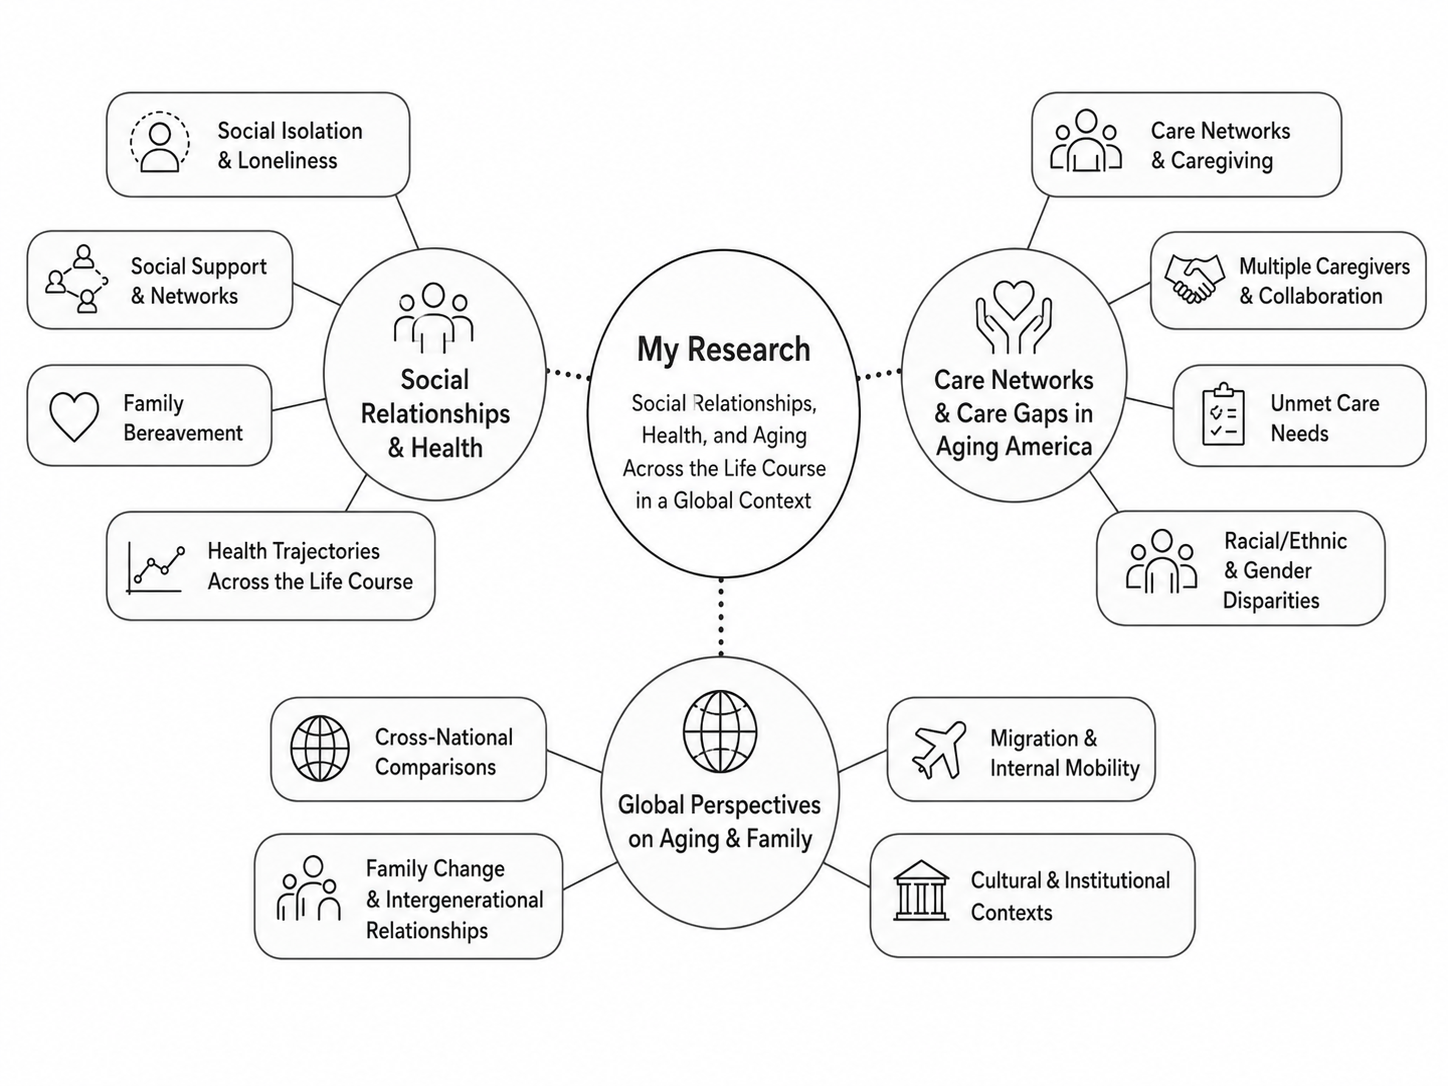
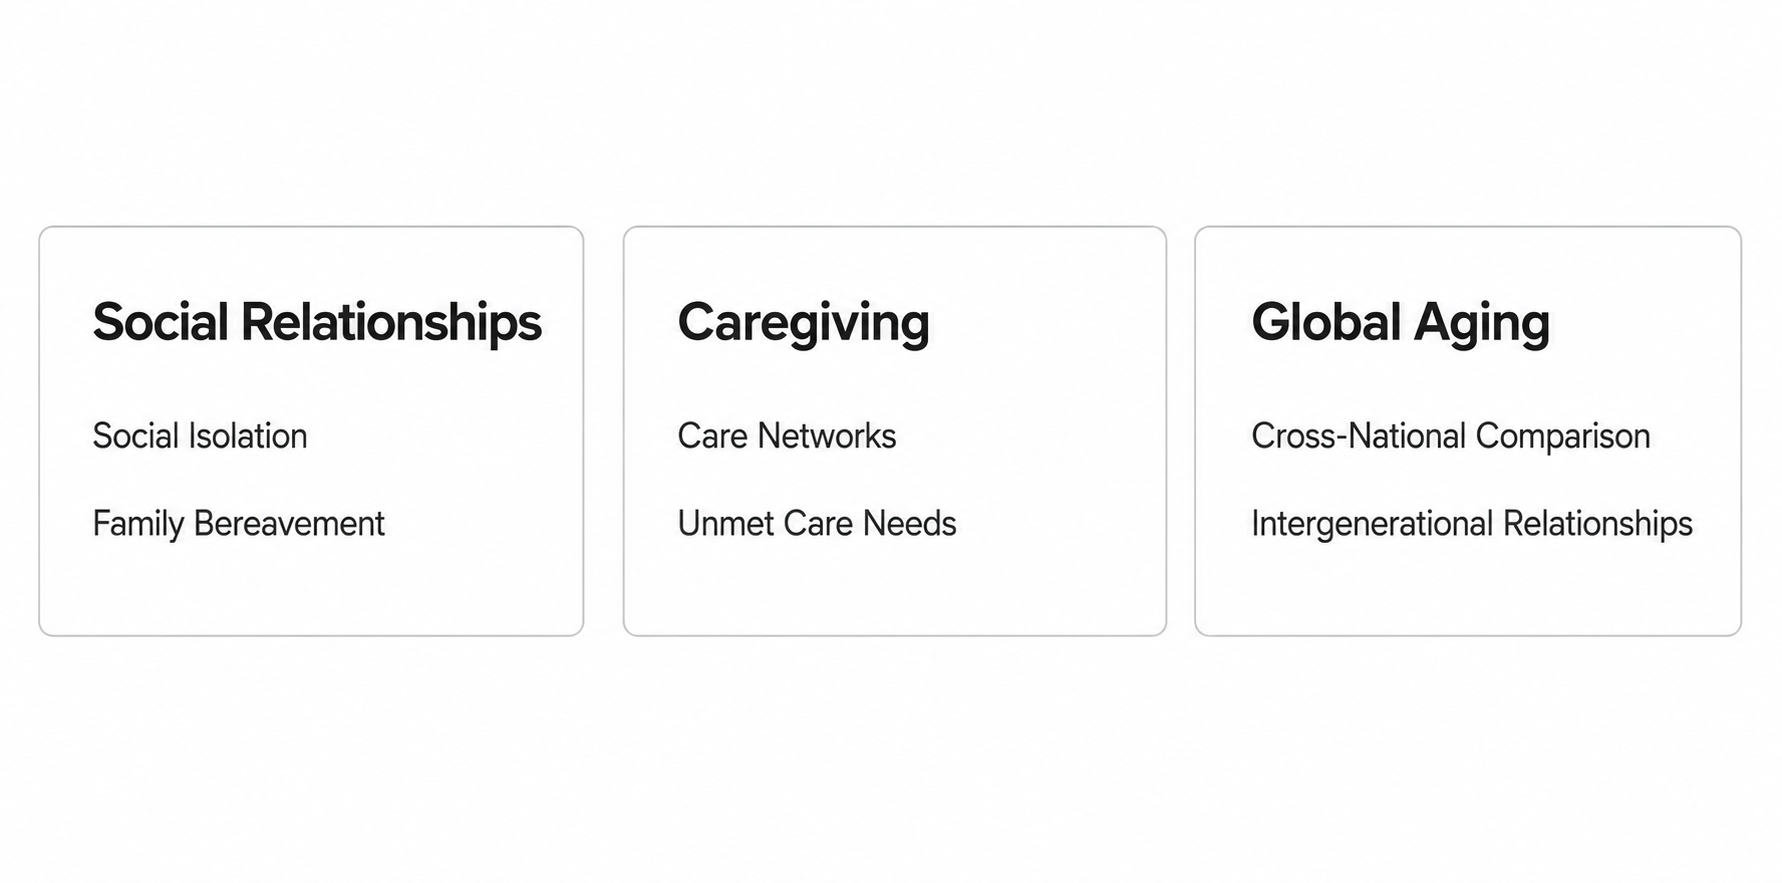
researchmap

diff --git a/_includes/head/custom.html b/_includes/head/custom.html
@@ -41,6 +41,23 @@
   figure.page-header-image--compact + h2 {
     margin-top: 0.75em;
   }
+
+  .page__content .research-intro-image {
+    margin: 0.5em 0 0.35em;
+  }
+
+  .page__content .research-intro-image img {
+    display: block;
+    width: 100%;
+    height: auto;
+    margin: 0;
+    border-radius: 0;
+    box-shadow: none;
+  }
+
+  .page__content .research-intro-image + h2 {
+    margin-top: 0.85em;
+  }
 </style>
 
 <!-- end custom head snippets -->

diff --git a/_pages/research.md b/_pages/research.md
@@ -6,6 +6,10 @@ author_profile: true
 
 My research focuses on the social foundations of health, aging, and caregiving. Using longitudinal and cross-national data, I examine how social relationships, family systems, and care arrangements shape well-being over the life course and in different social contexts.
 
+<figure class="page-header-image page-header-image--compact research-intro-image">
+  <img src="/images/research.png" alt="My research: social relationships and health, care networks and care gaps, and global perspectives on aging and family">
+</figure>
+
 ## Social Relationships and Health Across the Life Course
 
 My research examines how social relationships shape health from early life to later life. I study both the presence and loss of social ties, including family bereavement, social isolation, and unequal access to supportive relationships. A central goal of this work is to understand how social inequality becomes part of people's health trajectories over time, especially across race, ethnicity, gender, and sexual orientation. This line of research shows that social connection is not only a personal experience but also a social condition shaped by broader systems of inequality.